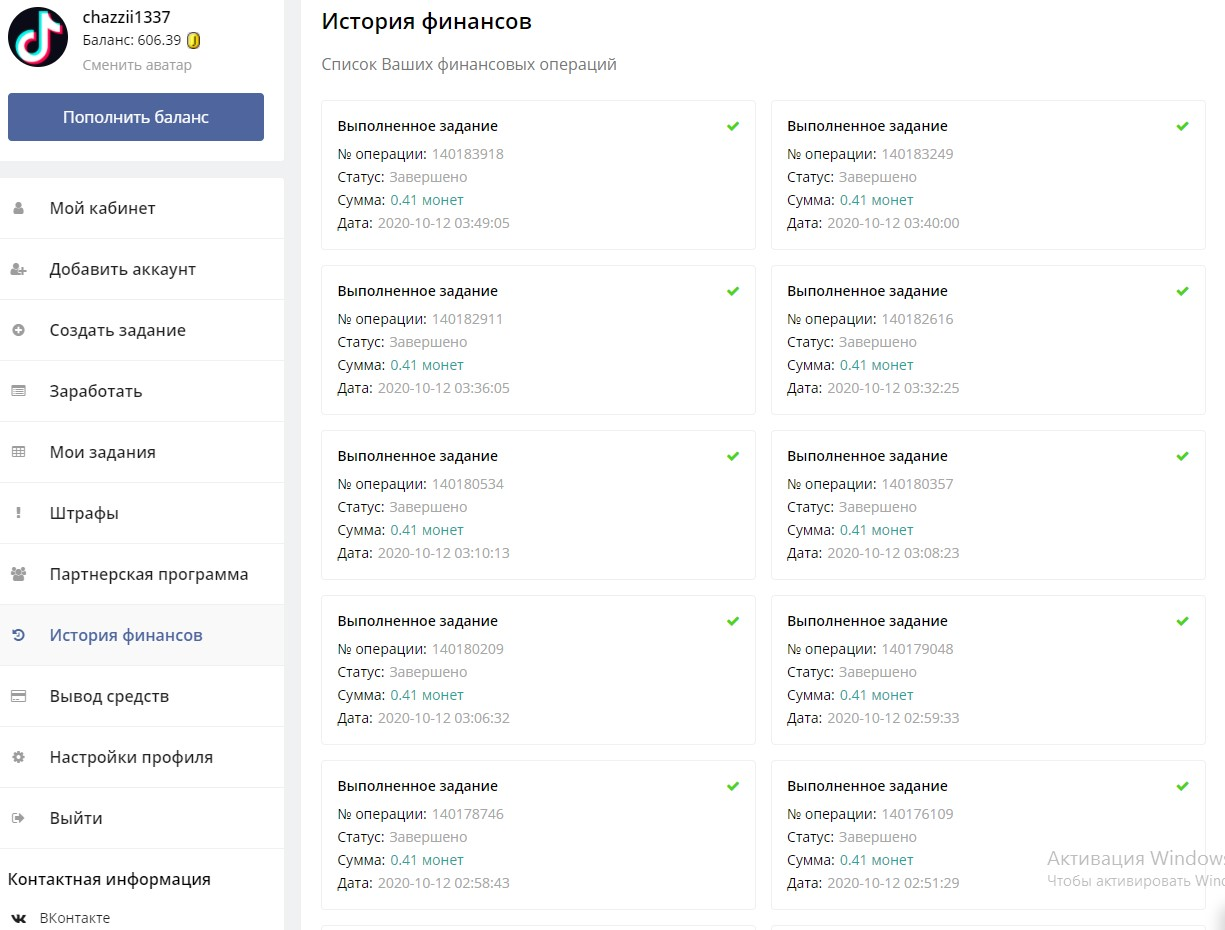
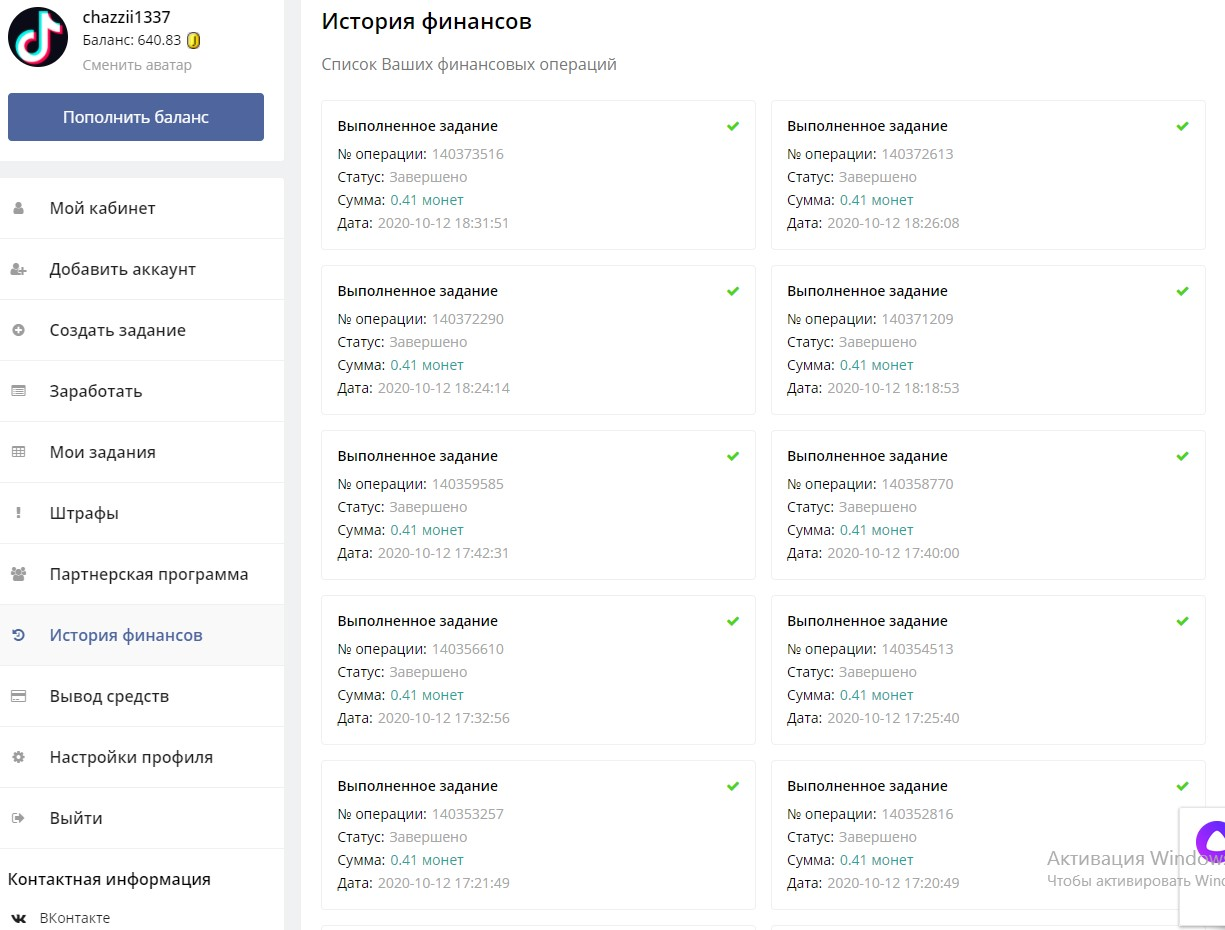
upd

diff --git a/data/bank.html b/data/bank.html
@@ -1,1 +1,1 @@
-<h2 style="color:#E0FFFF">390.7</h2>
+<h2 style="color:#E0FFFF">413.5</h2>

diff --git a/data/time.html b/data/time.html
@@ -1,1 +1,1 @@
-<h2 style="color:#E0FFFF">8:00</h2>
+<h2 style="color:#E0FFFF">18:31</h2>
